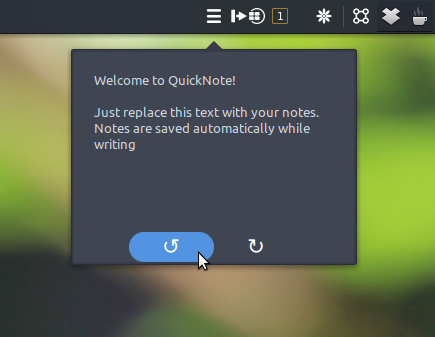
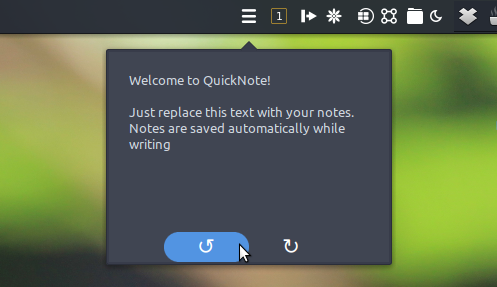
Edited RREADME.md and added improved screenshot.

diff --git a/budgie-quicknote/README.md b/budgie-quicknote/README.md
@@ -1,6 +1,4 @@
-Budgie QuickNote is an applet to provide the easiest way to make small notes. Just click the icon and write down your notes. 
-
-Budgie QuickNote autosaves the text while writing, and comes with a ten- level undo/redo function.
+Budgie QuickNote is an applet to provide the easiest possible way to make small notes. Just click the icon and write down your notes. Budgie QuickNote autosaves the text while writing, and comes with a ten- level undo/redo function.
 
 ![screenshot](https://github.com/UbuntuBudgie/budgie-extras/blob/master/budgie-quicknote/screenshot.png)
 
